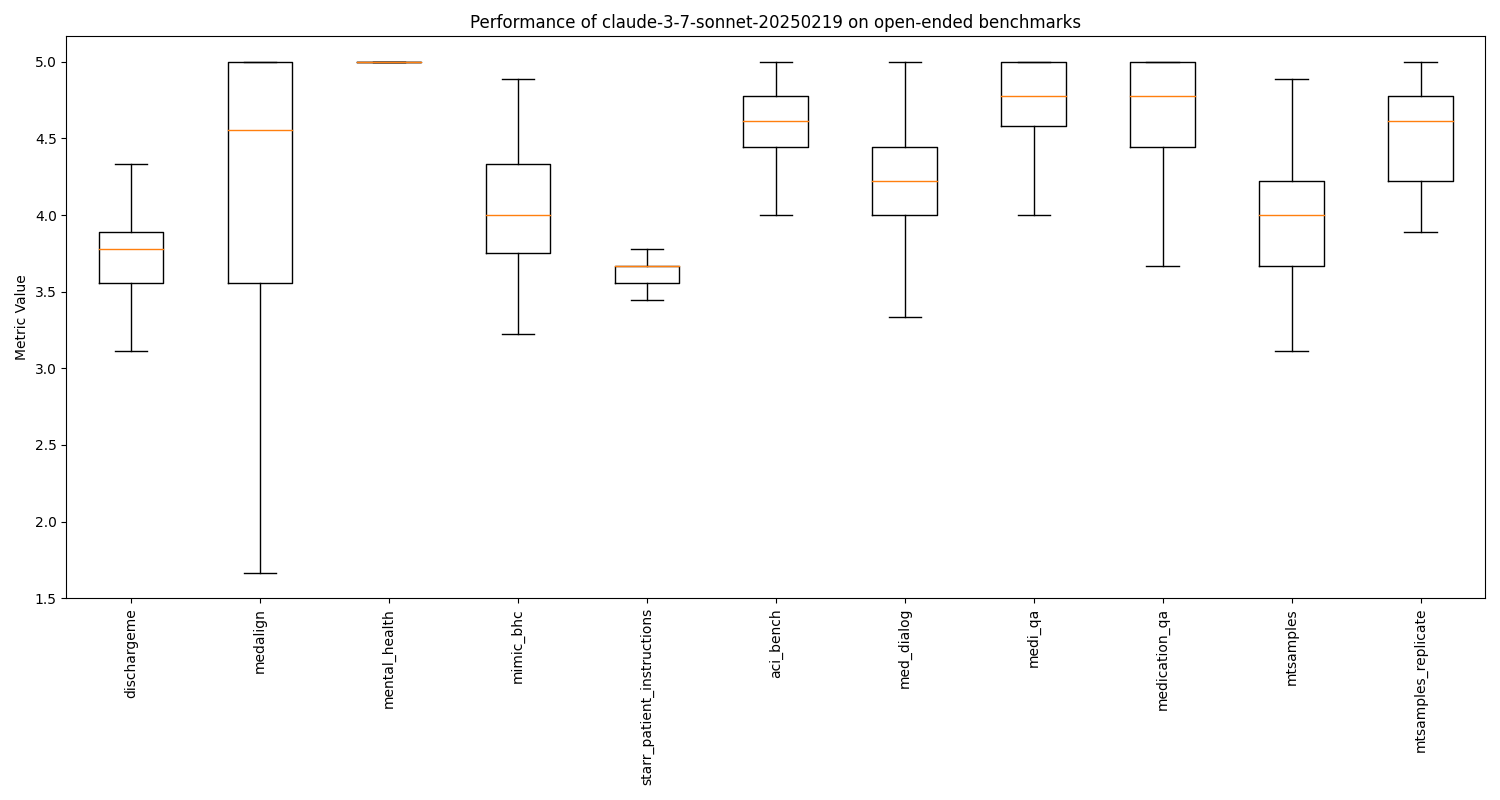
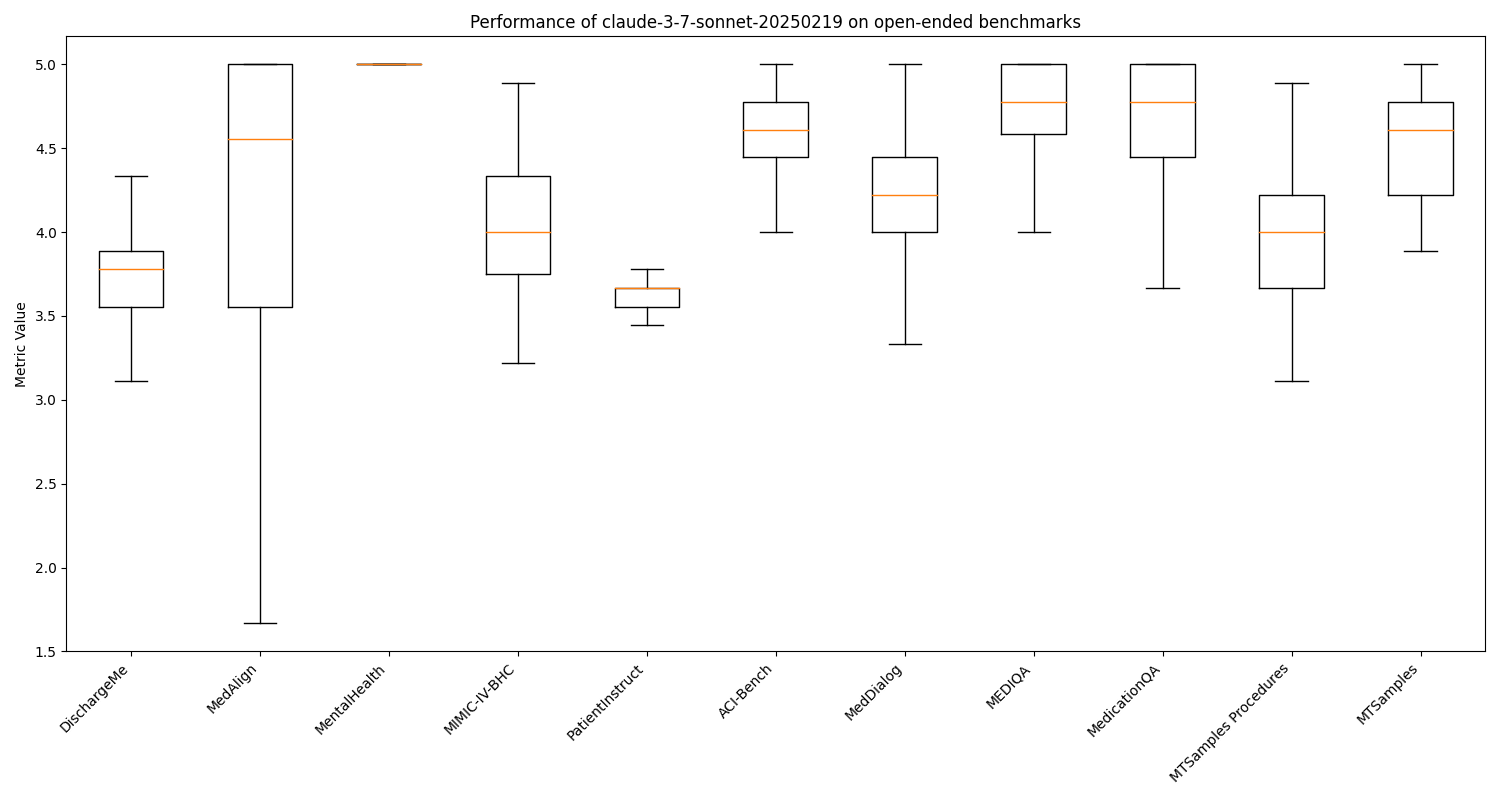
Update mtsamples procedures name

diff --git a/src/medhelm/plots/plot_open_ended_box_plots.py b/src/medhelm/plots/plot_open_ended_box_plots.py
@@ -13,7 +13,7 @@ from helm.common.hierarchical_logger import hlog
 from helm.benchmark.metrics.metric import PerInstanceStats
 from helm.benchmark.metrics.statistic import Stat
 
-from medhelm.utils.constants import BENCHMARK_METRICS, OPEN_ENDED_BENCHMARKS
+from medhelm.utils.constants import BENCHMARK_METRICS, OPEN_ENDED_BENCHMARKS, BENCHMARK_NAME_MAPPING
 
 
 PER_INSTANCE_STATS_FILE_NAME = "per_instance_stats.json"
@@ -145,10 +145,11 @@ def generate_box_plots(
 
     scenarios = list(metric_data[model].keys())
     data = [metric_data[model][scenario] for scenario in scenarios]
-
+    scenarios = list(BENCHMARK_NAME_MAPPING[scenario] for scenario in metric_data[model].keys())
+    
     plt.figure(figsize=(15, 8))
     plt.boxplot(data, labels=scenarios, showfliers=False)
-    plt.xticks(rotation=90)
+    plt.xticks(rotation=45, ha='right')
     plt.ylabel("Metric Value")
     plt.title(f"Performance of {model} on open-ended benchmarks")
     plt.tight_layout()

diff --git a/src/medhelm/utils/constants.py b/src/medhelm/utils/constants.py
@@ -145,7 +145,7 @@ BENCHMARK_METRICS: Dict[str, str] = {
     "dischargeme": "dischargeme_accuracy",
     "aci_bench": "aci_bench_accuracy",
     "mimic_bhc": "mimic_bhc_accuracy",
-    "mtsamples": "mtsamples_procedures_accuracy",
+    "mtsamples_procedures": "mtsamples_procedures_accuracy",
     "mimic_rrs": "mimic_rrs_accuracy",
     "chw_care_plan": "chw_care_plan_accuracy",
     "medication_qa": "medication_qa_accuracy",
@@ -174,7 +174,7 @@ OPEN_ENDED_BENCHMARKS: Set[str] = {
     "med_dialog",
     "medi_qa",
     "medication_qa",
-    "mtsamples",
+    "mtsamples_procedures",
     "mtsamples_replicate",
     "medalign",
     "chw_care_plan"
